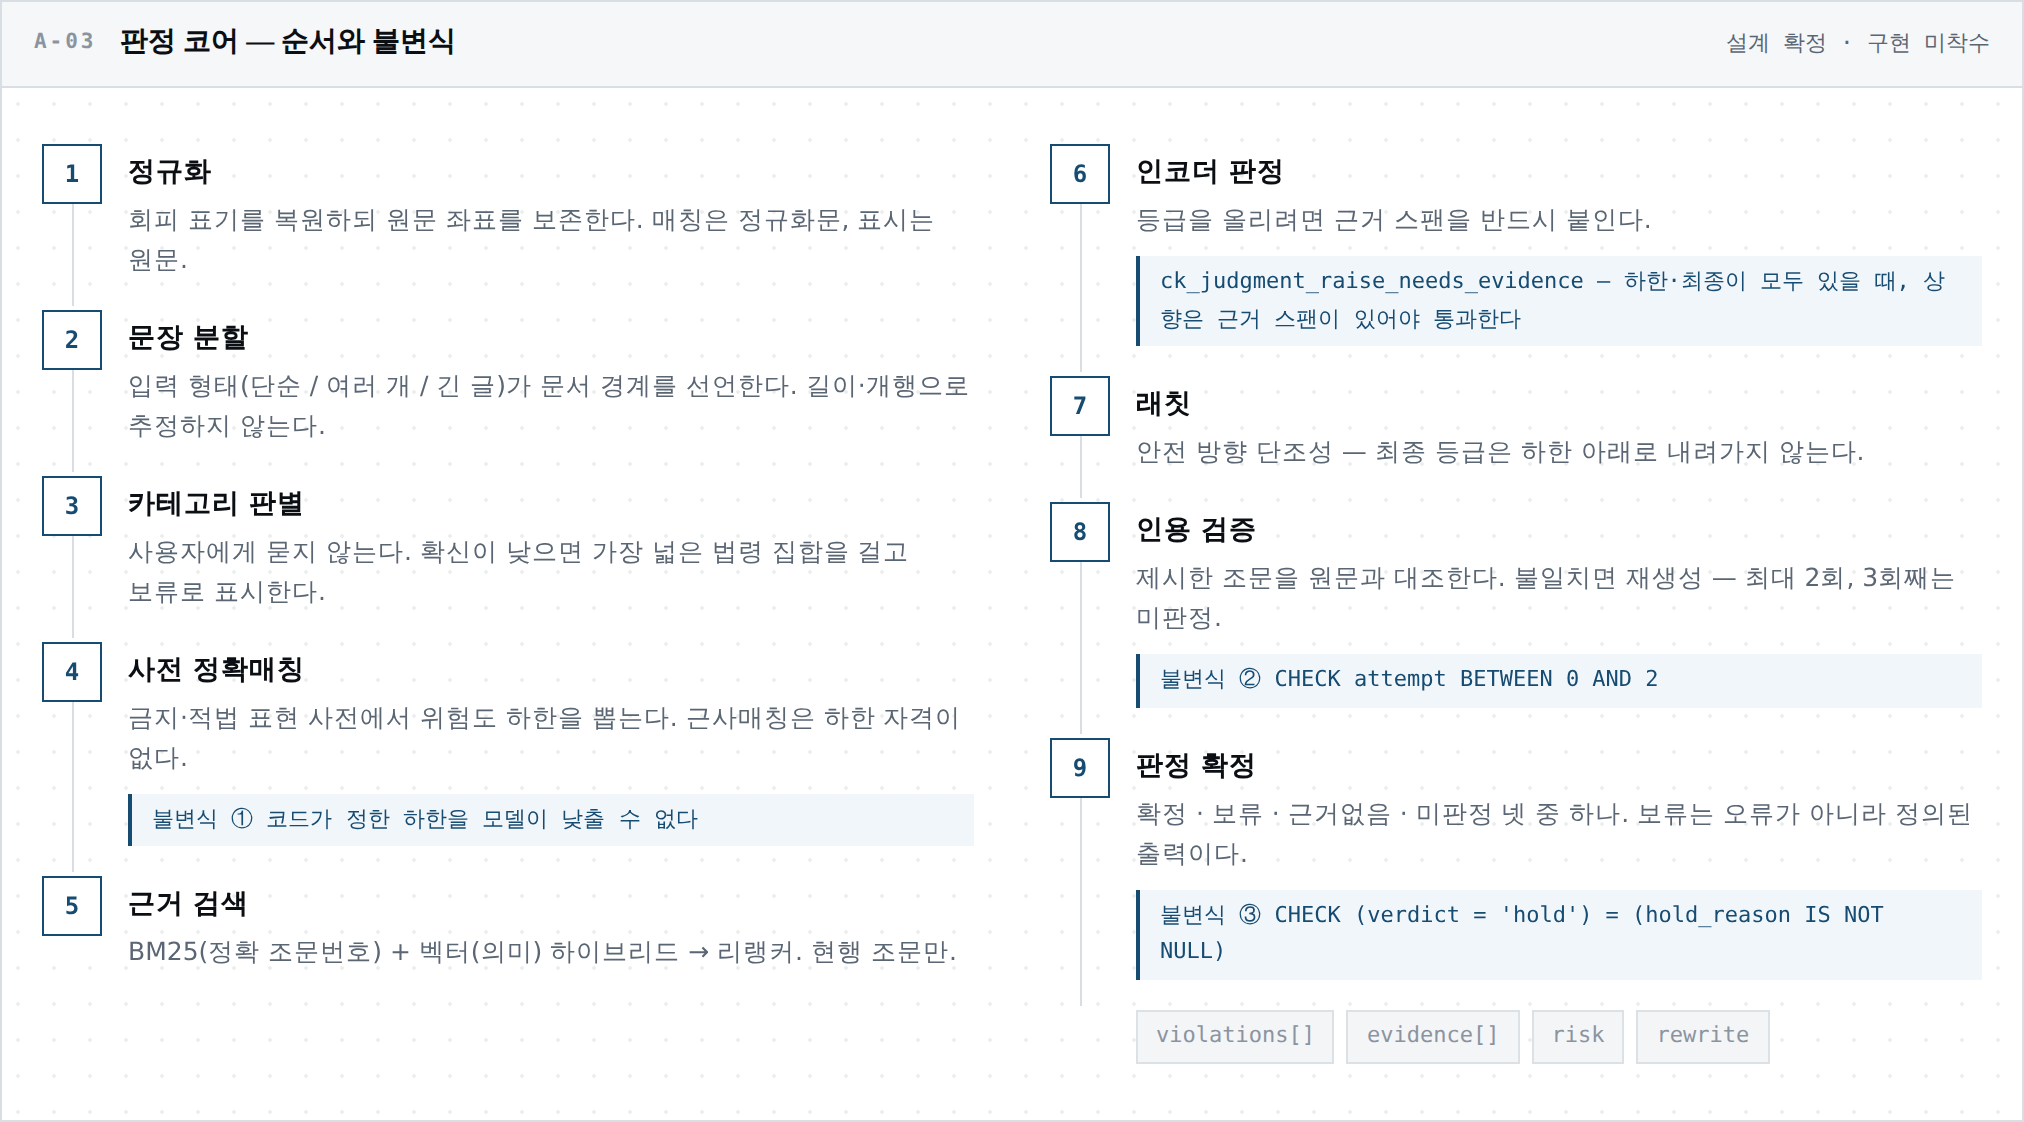
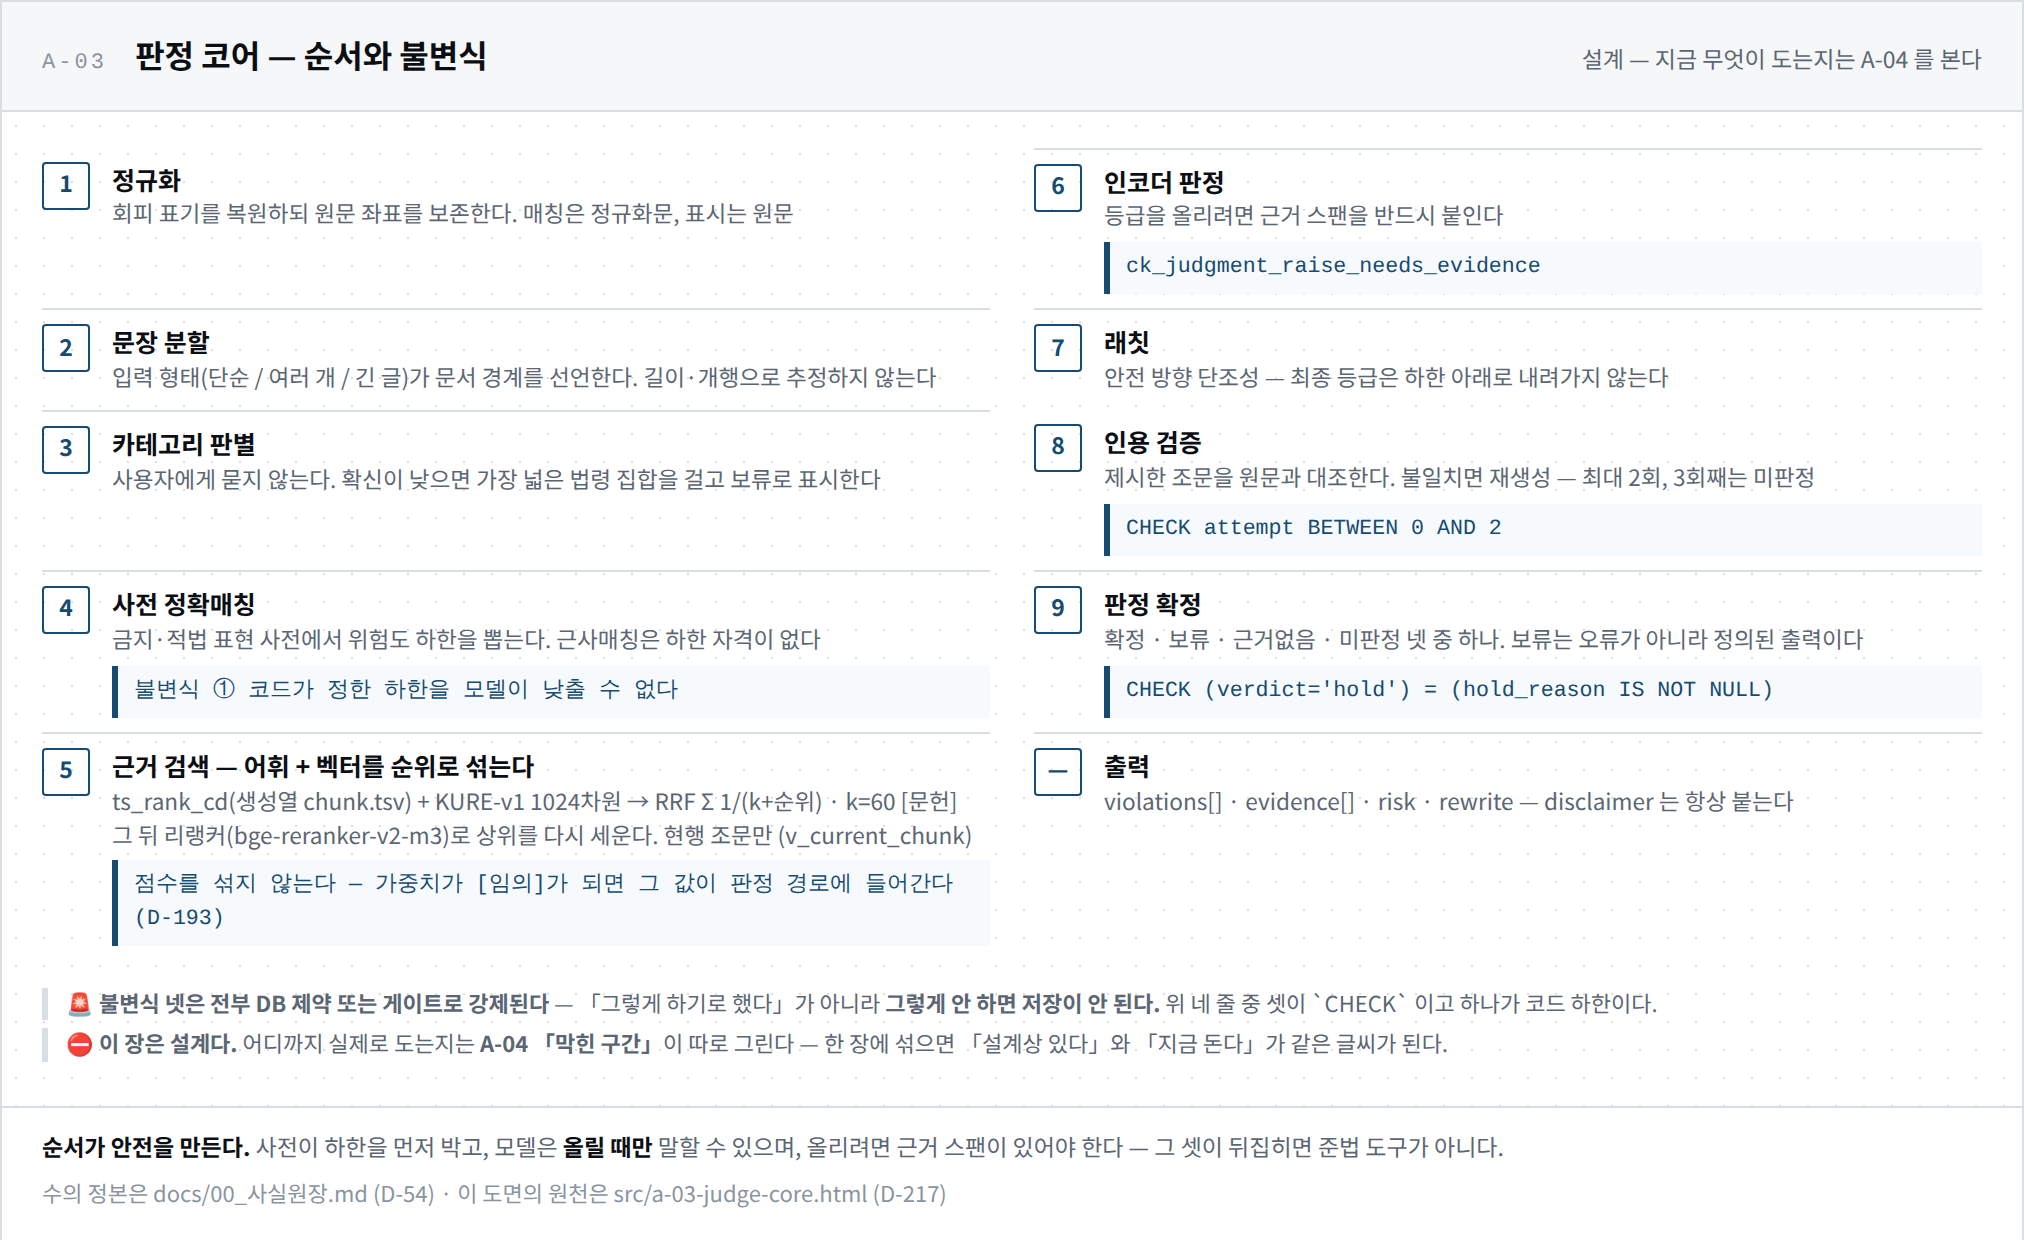
도면: E-03 · A-03 재작성 — 어휘 갈래는 BM25 가 아니다 (D-217)
- E-03 VectorDB: BM25 -> ts_rank_cd(생성열 chunk.tsv · 0010) 로 정정.
  RRF 를 파이프라인에 넣고 리랭커를 미착수로 내렸다 (붙은 것처럼 그려져 있었다).
  왜 BM25 가 아닌가를 본문에 적었다 — 같은 DB 안에서 끝나야 저장소가 하나로 유지된다
- A-03 판정 코어: 같은 정정. 리랭커는 계획에 남긴다
  초판에서 단계마다 구현 상태(✅/⬜)를 달았다가 뺐다 — A-03 은 기획을 설명하는 장이고
  현재 상태는 A-04 가 그린다. 한 장에 섞으면 두 도면의 축이 흐려진다
- plate.css 에 2열 대비 판(.pair/.pipe) · 번호 단계 판(.steps) 추가
- 원장 8-3-1: 원천 5/21. 그래프 retrieve 노드가 스텁인 것을 어느 도면이
  지는지 아직 안 정했다 — A-04 를 다음에 고칠 때 볼 자리

diff --git a/assets/diagrams/src/a-03-judge-core.html b/assets/diagrams/src/a-03-judge-core.html
@@ -1,0 +1,90 @@
+<!doctype html>
+<!--
+  A-03 · 판정 코어 — 순서와 불변식   ★ 이 파일이 원천이다 (D-90 · D-217)
+  ─────────────────────────────────────────────────────────────────
+  🔴 **2026-09-12 재작성.** ⑤ 가 「BM25 + 벡터 → 리랭커」였다 — 어휘 갈래는 BM25 가 아니고
+     (`ts_rank_cd` + 생성열 `chunk.tsv`), 리랭커는 미착수다.
+  🚨 **이 장은 「기획한 것」을 설명한다** — 지금 무엇이 도는지는 **A-04(막힌 구간)** 이 그린다.
+     ⛔ 여기에 구현 상태를 섞지 않는다. 초판에서 단계마다 ✅/⬜ 를 달았다가 뺐다 —
+        **두 도면의 축이 흐려진다.** 설계는 여기, 상태는 A-04.
+  ⛔ PNG 를 손으로 고치지 않는다. `launcher.py diagram` 으로 다시 뽑는다.
+-->
+<meta charset="utf-8">
+<title>A-03 판정 코어</title>
+<link rel="stylesheet" href="plate.css">
+
+<div class="plate">
+  <header>
+    <span class="no">A-03</span>
+    <h1>판정 코어 — 순서와 불변식</h1>
+    <span class="right">설계 — 지금 무엇이 도는지는 A-04 를 본다</span>
+  </header>
+
+  <div class="body">
+    <div class="steps">
+
+      <div class="stp"><div class="n">1</div><div>
+        <b>정규화</b>
+        <span>회피 표기를 복원하되 원문 좌표를 보존한다. 매칭은 정규화문, 표시는 원문</span></div></div>
+
+      <div class="stp"><div class="n">6</div><div>
+        <b>인코더 판정</b>
+        <span>등급을 올리려면 근거 스팬을 반드시 붙인다</span>
+        <div class="inv">ck_judgment_raise_needs_evidence</div></div></div>
+
+      <div class="stp"><div class="n">2</div><div>
+        <b>문장 분할</b>
+        <span>입력 형태(단순 / 여러 개 / 긴 글)가 문서 경계를 선언한다. 길이·개행으로 추정하지 않는다</span></div></div>
+
+      <div class="stp"><div class="n">7</div><div>
+        <b>래칫</b>
+        <span>안전 방향 단조성 — 최종 등급은 하한 아래로 내려가지 않는다</span></div></div>
+
+      <div class="stp"><div class="n">3</div><div>
+        <b>카테고리 판별</b>
+        <span>사용자에게 묻지 않는다. 확신이 낮으면 가장 넓은 법령 집합을 걸고 보류로 표시한다</span></div></div>
+
+      <div class="stp"><div class="n">8</div><div>
+        <b>인용 검증</b>
+        <span>제시한 조문을 원문과 대조한다. 불일치면 재생성 — 최대 2회, 3회째는 미판정</span>
+        <div class="inv">CHECK attempt BETWEEN 0 AND 2</div></div></div>
+
+      <div class="stp"><div class="n">4</div><div>
+        <b>사전 정확매칭</b>
+        <span>금지·적법 표현 사전에서 위험도 하한을 뽑는다. 근사매칭은 하한 자격이 없다</span>
+        <div class="inv">불변식 ① 코드가 정한 하한을 모델이 낮출 수 없다</div></div></div>
+
+      <div class="stp"><div class="n">9</div><div>
+        <b>판정 확정</b>
+        <span>확정 · 보류 · 근거없음 · 미판정 넷 중 하나. 보류는 오류가 아니라 정의된 출력이다</span>
+        <div class="inv">CHECK (verdict='hold') = (hold_reason IS NOT NULL)</div></div></div>
+
+      <div class="stp"><div class="n">5</div><div>
+        <b>근거 검색 — 어휘 + 벡터를 순위로 섞는다</b>
+        <span>ts_rank_cd(생성열 chunk.tsv) + KURE-v1 1024차원 → RRF Σ 1/(k+순위) · k=60 [문헌]</span>
+        <span>그 뒤 리랭커(bge-reranker-v2-m3)로 상위를 다시 세운다. 현행 조문만 (v_current_chunk)</span>
+        <div class="inv">점수를 섞지 않는다 — 가중치가 [임의]가 되면 그 값이 판정 경로에 들어간다 (D-193)</div></div></div>
+
+      <div class="stp"><div class="n">—</div><div>
+        <b>출력</b>
+        <span>violations[] · evidence[] · risk · rewrite — disclaimer 는 항상 붙는다</span></div></div>
+
+    </div>
+
+    <p class="note" style="margin-top:14px">
+      🚨 <b>불변식 넷은 전부 DB 제약 또는 게이트로 강제된다</b> — 「그렇게 하기로 했다」가 아니라
+      <b>그렇게 안 하면 저장이 안 된다.</b> 위 네 줄 중 셋이 `CHECK` 이고 하나가 코드 하한이다.
+    </p>
+    <p class="note">
+      ⛔ <b>이 장은 설계다.</b> 어디까지 실제로 도는지는 <b>A-04 「막힌 구간」</b>이 따로 그린다 —
+      한 장에 섞으면 「설계상 있다」와 「지금 돈다」가 같은 글씨가 된다.
+    </p>
+  </div>
+
+  <footer>
+    <span class="k">순서가 안전을 만든다.</span>
+    사전이 하한을 먼저 박고, 모델은 <span class="k">올릴 때만</span> 말할 수 있으며,
+    올리려면 근거 스팬이 있어야 한다 — 그 셋이 뒤집히면 준법 도구가 아니다.
+    <div class="lock">수의 정본은 docs/00_사실원장.md (D-54) · 이 도면의 원천은 src/a-03-judge-core.html (D-217)</div>
+  </footer>
+</div>

diff --git a/assets/diagrams/src/e-03-vectordb.html b/assets/diagrams/src/e-03-vectordb.html
@@ -1,0 +1,77 @@
+<!doctype html>
+<!--
+  E-03 · VectorDB 구조   ★ 이 파일이 원천이다 (D-90 · D-217)
+  ─────────────────────────────────────────────────────────────────
+  🔴 **2026-09-12 재작성.** 종전 판은 어휘 갈래를 **BM25** 로 그렸다 — 실제는
+     PostgreSQL `ts_rank_cd` + 생성열 `chunk.tsv`(0010)다. 그리고 **리랭커를 이미 붙은 것처럼**
+     그렸는데 미착수다. ⛔ 도면이 보여 주는 것은 구조이므로 여기가 틀리면 도면이 거짓말을 한다.
+  ⛔ PNG 를 손으로 고치지 않는다. `launcher.py diagram` 으로 다시 뽑는다.
+-->
+<meta charset="utf-8">
+<title>E-03 VectorDB 구조</title>
+<link rel="stylesheet" href="plate.css">
+
+<div class="plate">
+  <header>
+    <span class="no">E-03</span>
+    <h1>VectorDB 구조</h1>
+    <span class="right">무엇을 벡터에 넣고 무엇을 안 넣는가 · 2026-09-12</span>
+  </header>
+
+  <div class="body">
+    <div class="pair">
+      <fieldset>
+        <legend>벡터에 넣는다 — 검색 대상 텍스트</legend>
+        <div class="card" style="border-left:3px solid #186A5E;background:#F7FBFA">
+          <b style="color:#186A5E">법령 조문 본문</b><span>조 · 항 · 호 단위 · chunk 2,400</span></div>
+        <div class="card" style="border-left:3px solid #186A5E;background:#F7FBFA">
+          <b style="color:#186A5E">고시 · 지침 본문</b><span>일반 · 화장품 · 건기식 · 식품</span></div>
+        <div class="card"><b>사례집 서술 문단</b><span>미확정 — 인용은 조문만 허용</span></div>
+        <p class="note" style="margin:8px 0 0">
+          🚨 <b>조가 길면 쪼갠다</b> — `part_total &gt; 1` 인 근거는 <b>조문의 일부</b>다 (0011 · D-199).
+          「제18조」라고만 적으면 3분의 1을 전문으로 인용하는 것이 된다.
+        </p>
+      </fieldset>
+
+      <fieldset class="rsk">
+        <legend>벡터에 넣지 않는다 — 관계형</legend>
+        <div class="card flag"><b>별표 제재 기준</b><span>차수 × 제재 × 기간</span></div>
+        <div class="card flag"><b>과징금 부과기준율</b></div>
+        <div class="card flag"><b>벌칙 조항 상한</b></div>
+        <div class="card flag"><b>금지 · 적법 표현 사전</b><span>정확매칭이 위험도 하한을 만든다</span></div>
+      </fieldset>
+    </div>
+
+    <div class="pipe">
+      <div class="box"><b>질의</b><span>광고 문구 한 문장</span></div>
+      <div class="j">→</div>
+      <div class="box pos"><b>어휘 갈래 ✅</b><span>ts_rank_cd · 생성열 chunk.tsv (0010)</span><span>조사 정규화 · to_tsquery('simple')</span></div>
+      <div class="j">+</div>
+      <div class="box pos"><b>벡터 갈래 ✅</b><span>KURE-v1 · 1024차원 · pgvector</span></div>
+      <div class="j">→</div>
+      <div class="box pos"><b>RRF ✅</b><span>Σ 1/(k+순위) · k=60 [문헌]</span><span>점수를 안 쓰고 순위만 쓴다</span></div>
+      <div class="j">→</div>
+      <div class="box off"><b>리랭커 ⬜</b><span>bge-reranker-v2-m3 · 512 상한</span><span>미착수 — 지금은 RRF 순위 그대로</span></div>
+      <div class="j">→</div>
+      <div class="box"><b>인용할 조문</b><span>출처표시 · 시행일 동반</span></div>
+    </div>
+
+    <p class="note" style="margin-top:14px">
+      🔴 <b>BM25 가 아니다.</b> 종전 도면은 그렇게 적혀 있었지만 어휘 갈래는 <b>PostgreSQL 전문검색</b>이다 —
+      벡터와 <b>같은 DB 안에서 끝나므로</b> 저장소가 하나로 유지된다. 별도 검색엔진을 두면
+      청크가 지워질 때 인덱스 정합을 사람이 지켜야 한다 (pgvector 를 고른 것과 같은 논거).
+    </p>
+    <p class="note">
+      <b>별표를 벡터에 넣지 않는 이유.</b> 「1차 시정명령 / 2차 업무정지 15일 / 3차 업무정지 1개월」은
+      <b>표 구조 자체가 의미</b>다. 평문화해 임베딩하면 차수와 제재의 대응이 깨지고, 검색은
+      「비슷한 문장」을 돌려줄 뿐 <b>어느 차수인지 보장하지 못한다.</b>
+    </p>
+  </div>
+
+  <footer>
+    <span class="k">검색은 두 갈래를 순위로 섞는다.</span>
+    점수를 섞으면 가중치가 <span class="k">[임의]</span>가 되고, 그 값이 판정 경로에 들어간다 —
+    RRF 는 상수 하나뿐이고 그 값에 문헌 근거가 있다 (D-193).
+    <div class="lock">수의 정본은 docs/00_사실원장.md (D-54) · 이 도면의 원천은 src/e-03-vectordb.html (D-217)</div>
+  </footer>
+</div>

diff --git a/assets/diagrams/src/plate.css b/assets/diagrams/src/plate.css
@@ -85,3 +85,28 @@
 }
 .railway .seg{flex:1; text-align:center; padding:5px 4px; border:1px solid var(--line); border-radius:2px; background:#fff}
 .railway .to{color:var(--off)}
+
+/* ── 2열 대비 판 (E-03) ─────────────────────────────────────────── */
+.pair{display:grid; grid-template-columns:1fr 1fr; gap:14px; align-items:start}
+.pipe{display:flex; align-items:stretch; gap:0; margin-top:16px}
+.pipe .box{flex:1; border:1px solid var(--line); border-radius:2px; padding:9px 11px; background:#fff}
+.pipe .box b{display:block; font-size:12px; margin-bottom:2px}
+.pipe .box span{display:block; color:var(--sub); font-size:11px}
+.pipe .box.pos{border-left:3px solid #286E4C; background:#F7FBF9}
+.pipe .box.pos b{color:#286E4C}
+.pipe .box.off{border:1px dashed #C4CCD4; background:var(--offbg)}
+.pipe .box.off b{color:var(--off)}
+.pipe .j{display:flex; align-items:center; padding:0 7px; color:var(--off); font-size:13px}
+
+/* ── 번호 단계 판 (A-03) ────────────────────────────────────────── */
+.steps{display:grid; grid-template-columns:1fr 1fr; gap:0 22px}
+.stp{display:grid; grid-template-columns:26px 1fr; gap:9px; padding:7px 0; border-top:1px solid var(--line)}
+.stp:first-child, .steps > .stp:nth-child(6){border-top:none}
+.stp .n{
+  width:24px; height:24px; border:1px solid var(--gov); border-radius:2px; color:var(--gov);
+  display:flex; align-items:center; justify-content:center; font-size:11.5px; font-weight:700;
+}
+.stp.pos .n{border-color:#286E4C; color:#286E4C}
+.stp b{display:block; font-size:12.5px}
+.stp span{display:block; color:var(--sub); font-size:11.3px}
+.inv{margin-top:4px; padding:5px 8px; background:#F7FAFC; border-left:3px solid var(--gov); font-size:10.8px; color:var(--gov); font-family:ui-monospace,Menlo,monospace}

diff --git a/docs/00_사실원장.md b/docs/00_사실원장.md
@@ -2693,7 +2693,7 @@ ruff check                                                         All checks pa
 ★ 그래서 이미지·바이너리는 **바이트가 아니라 치수와 내용으로 대조한다** — **D-218** 로 세웠다.
 ⛔ 「바이트가 다르니 안 써졌다」로 읽으면 안 되고, 「바이트가 같아야 한다」를 텍스트에서는
 계속 지킨다 — **파일 종류에 따라 대조 방법이 다르다는 것이 오늘 새로 안 것이다.**
-⬜ **원천이 있는 것은 3/21** 이다 (P-01 · A-01 · A-04). 나머지 18장은 손으로 그린 뒤 PNG 만 남았다.
+⬜ **원천이 있는 것은 5/21** 이다 (P-01 · A-01 · A-03 · A-04 · E-03). 나머지 16장은 손으로 그린 뒤 PNG 만 남았다.
 
 #### ③-1 다시 그린 3장 (2026-09-12 밤)
 
@@ -2703,7 +2703,14 @@ ruff check                                                         All checks pa
 | **A-04** | 상태 역전 2행 정정 — 별표 파싱 **✅ 243행** · 임베딩 **✅ 2,400**. 🆕 **병목이 「파싱」에서 「적재기」로 옮겨 간 것**과 **2층이 서면서 리랭커(3층)가 새 빈칸이 된 것**을 같이 그렸다 |
 | **A-01** | `chunk_embedding` 회색 → **✅ 2,400** · 런타임층 **6표 → 7표**(`app_account`) · **거버넌스 콘솔**(`/login`·`/admin` · cloud 에서 안 붙음) 신설 · 검색이 RRF 임을 본문에 |
 
-★ 셋이 `plate.css` 한 장을 같이 쓴다 (D-99) — 색·간격을 고치면 세 장이 같이 바뀐다.
+| **E-03** | 어휘 갈래를 **`BM25` → `ts_rank_cd`(생성열 `chunk.tsv` · 0010)** 로 정정 · **RRF** 를 파이프라인에 넣고 **리랭커를 ⬜ 로 내렸다**(붙은 것처럼 그려져 있었다) |
+| **A-03** | ⑤ 근거 검색 같은 정정 (BM25 → `ts_rank_cd` + RRF). ⚠ **초판에서 단계마다 구현 상태(✅/⬜)를 달았다가 뺐다** — 팀장 지적: **A-03 은 기획을 설명하는 장**이고 현재 상태는 **A-04** 가 그린다. 한 장에 섞으면 두 도면의 축이 흐려진다 |
+
+★ 다섯이 `plate.css` 한 장을 같이 쓴다 (D-99) — 색·간격을 고치면 다섯 장이 같이 바뀐다.
+🔴 **재는 중에 나온 사실 하나** — 「검색 코어가 돈다」와 「그래프가 그것을 부른다」는 **다른 말**이다.
+`app/retrieve.py` 는 `/search` 에서 돌지만 `app/graph.py` 의 `retrieve` 노드는 아직 `return {}` 다.
+⬜ **이 구분을 어느 도면이 지는지는 아직 안 정했다** — A-04 가 「검색 ✅」 한 칸으로만 그리고 있어
+그래프 노드가 스텁이라는 것이 어디에도 안 그려져 있다. **A-04 를 다음에 고칠 때 볼 자리다.**
 🚨 **`build_diagram.py` 에서 하나 밟았다** — 뷰포트 높이 800 으로 두면 `full_page` 가
 `max(내용, 뷰포트)` 라 **내용이 짧은 장에 빈 여백이 붙는다.** A-04 에서 잡아 100 으로 내렸다.
 

diff --git a/assets/diagrams/README.md b/assets/diagrams/README.md
@@ -16,13 +16,13 @@
 | **W-02** | `w-02-recheck-gate.png` | 재검수와 판정 게이트 | ⬜ 없음 |
 | **A-01** | `a-01-overview.png` | 전체 구성 | ✅ `src/a-01-overview.html` |
 | **A-02** | `a-02-collect-gate.png` | 수집 게이트 | ⬜ 없음 |
-| **A-03** | `a-03-judge-core.png` | 판정 코어 — 순서와 불변식 | ⬜ 없음 |
+| **A-03** | `a-03-judge-core.png` | 판정 코어 — 순서와 불변식 | ✅ `src/a-03-judge-core.html` |
 | **A-04** | `a-04-blocked.png` | 막힌 구간 | ✅ `src/a-04-blocked.html` |
 | **D-01** | `d-01-data-uses.png` | 학습 · RAG · 업무활용 3분류 | ⬜ 없음 |
 | **D-02** | `d-02-eval-samples.png` | 위반 유형별 평가 표본 | ⬜ 없음 |
 | **E-01** | `e-01-data-layer.png` | 데이터층 19표 — 등급이 흐르는 뼈대 | ⬜ 없음 |
 | **E-02** | `e-02-runtime-layer.png` | 런타임층 6표 — 사용자가 쓴 것 | ⬜ 없음 |
-| **E-03** | `e-03-vectordb.png` | VectorDB 구조 | ⬜ 없음 |
+| **E-03** | `e-03-vectordb.png` | VectorDB 구조 | ✅ `src/e-03-vectordb.html` |
 | **G-01** | `g-01-grade-use.png` | 등급 × 용도 판정 기준 | ⬜ 없음 |
 | **G-02** | `g-02-collect-modes.png` | 수집 방식 — 어떻게 받았는가 | ⬜ 없음 |
 | **G-03** | `g-03-lineage.png` | 소스 → 파생물 → 용도 계보 | ⬜ 없음 |
@@ -37,12 +37,12 @@
 >
 > ⛔ **PNG 는 생성물입니다 — 손으로 고치지 않습니다** (D-90 · D-217).
 > 원천이 `src/` 에 있는 것은 원천을 고치고 `uv run python launcher.py diagram` 으로 다시 뽑습니다.
-> 🔴 **⬜ 로 표시된 18장은 원천이 없습니다** — 손으로 그린 뒤 PNG 만 남았습니다.
+> 🔴 **⬜ 로 표시된 16장은 원천이 없습니다** — 손으로 그린 뒤 PNG 만 남았습니다.
 > **없는 것을 있다고 하지 않습니다** (D-188). 고치려면 그 장의 원천부터 만들어야 합니다.
 >
 > 🔒 **P-01 의 경쟁사는 가명입니다** (D-216). 대응표는 저장소 밖(팀 내부)에 있습니다.
 >
-> ✅ **2026-09-12 — P-01 · A-01 · A-04 를 다시 그렸습니다.** 셋 다 원천이 `src/` 에 들어왔고
+> ✅ **2026-09-12 — P-01 · A-01 · A-04 · A-03 · E-03 을 다시 그렸습니다.** 셋 다 원천이 `src/` 에 들어왔고
 > `plate.css` 한 장을 같이 씁니다 (D-99 — 색·간격을 고치면 전부 같이 바뀝니다).
 > A-04 가 어긋난 이유가 「원천이 저장소 밖(2주차 문서의 mermaid)에 있었다」였고, 그것이
 > 원천을 들이기로 한 계기입니다 (D-217).
